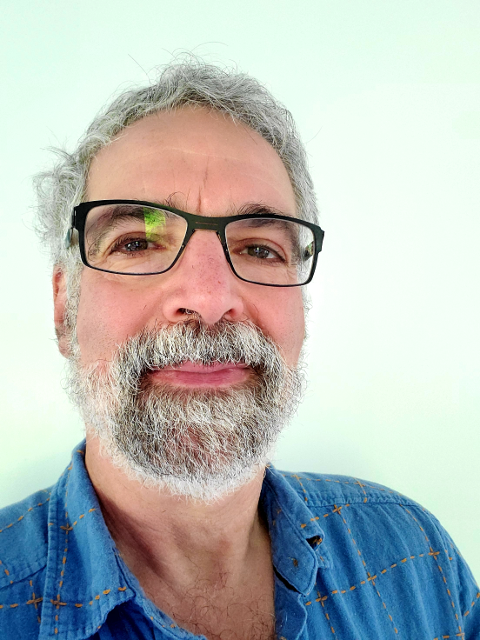
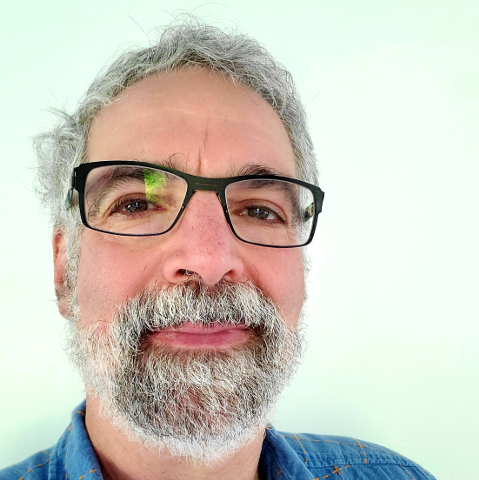
add headshots to site

diff --git a/index.html b/index.html
@@ -126,31 +126,80 @@
 
         <h3>More information coming soon!</h3>
         <p>
-            Emily&nbsp;Cunningham,
-            Elena&nbsp;D’Onghia,
-            Victor&nbsp;Debattista,
-            Kathryn&nbsp;Johnston,
-            Keith&nbsp;Hawkins,
-            Amina&nbsp;Helmi,
-            Jason&nbsp;Hunt,
-            Melissa&nbsp;Ness,
-            Sarah&nbsp;Pearson,
-            Adrian&nbsp;Price-Whelan,
-            Robyn&nbsp;Sanderson,
-            Tjitske&nbsp;Starkenburg,
-            Monica&nbsp;Valluri,
-            Eugene&nbsp;Vasiliev,
-            Martin&nbsp;Weinberg,
-            Larry&nbsp;Widrow
-            </p>
-
-        <!-- <table class="headshots">
-          <tr>
-            <td></td>
-            <td></td>
-            <td></td>
-          </tr>
-        </table> -->
+          <!-- <table class="mentors">
+            <tr>
+              <td><img src="./images/headshots/emilycunningham.jpg" /></td>
+              <td><img src="./images/orbit.png" /></td>
+              <td><img src="./images/orbit.png" /></td>
+            </tr>
+          </table> -->
+          <ul>
+            <li class="headshot-container">
+              <img src="./images/headshots/emilycunningham.jpg"/>
+              <span class="caption">Emily Cunningham</span>
+            </li>
+            <li class="headshot-container">
+              <img class="image" src="./images/orbit.png"/>
+              <span class="caption">Elena D'Onghia</span>
+            </li>
+            <li class="headshot-container">
+              <img class="image" src="./images/orbit.png"/>
+              <span class="caption">Victor Debattista</span>
+            </li>
+            <li class="headshot-container">
+              <img class="image" src="./images/headshots/kathrynjohnston.jpg"/>
+              <span class="caption">Kathryn Johnston</span>
+            </li>
+            <li class="headshot-container">
+              <img class="image" src="./images/headshots/keithhawkins.jpg"/>
+              <span class="caption">Keith Hawkins</span>
+            </li>
+            <li class="headshot-container">
+              <img class="image" src="./images/orbit.png"/>
+              <span class="caption">Amina Helmi</span>
+            </li>
+            <li class="headshot-container">
+              <img class="image" src="./images/headshots/jasonhunt.jpeg"/>
+              <span class="caption">Jason Hunt</span>
+            </li>
+            <li class="headshot-container">
+              <img class="image" src="./images/headshots/melissaness.jpg"/>
+              <span class="caption">Melissa Ness</span>
+            </li>
+            <li class="headshot-container">
+              <img class="image" src="./images/headshots/sarahpearson.jpg"/>
+              <span class="caption">Sarah Pearson</span>
+            </li>
+            <li class="headshot-container">
+              <img class="image" src="./images/headshots/adrianpw.jpg"/>
+              <span class="caption">Adrian Price-Whelan</span>
+            </li>
+            <li class="headshot-container">
+              <img class="image" src="./images/headshots/robynsanderson.jpg"/>
+              <span class="caption">Robyn Sanderson</span>
+            </li>
+            <li class="headshot-container">
+              <img class="image" src="./images/headshots/tjitskestarkenburg.jpg"/>
+              <span class="caption">Tjitske Starkenburg</span>
+            </li>
+            <li class="headshot-container">
+              <img class="image" src="./images/headshots/monicavalluri.jpg"/>
+              <span class="caption">Monica Valluri</span>
+            </li>
+            <li class="headshot-container">
+              <img class="image" src="./images/headshots/eugenevasiliev.jpg"/>
+              <span class="caption">Eugene Vasiliev</span>
+            </li>
+            <li class="headshot-container">
+              <img class="image" src="./images/headshots/martinweinberg.png"/>
+              <span class="caption">Martin Weinberg</span>
+            </li>
+            <li class="headshot-container">
+              <img class="image" src="./images/headshots/larrywidrow.jpg"/>
+              <span class="caption">Larry Widrow</span>
+            </li>
+          </ul>
+        </p>
 
         <hr />
       </div>

diff --git a/css/styles.css b/css/styles.css
@@ -348,6 +348,28 @@ span.parstart {
   color: black;
 }
 
+
+.headshot-container {
+  display: inline-block;
+  margin-left: 10px;
+  margin-right: 10px;
+}
+
+.headshot-container img {
+  border-radius: 50%;
+  width: 172px;
+  height: 172px;
+  display: block;
+  margin-bottom: 10px;
+}
+
+.headshot-container .caption {
+  display: block;
+  width: 100%;
+  text-align: center;
+  margin-bottom: 40px;
+}
+
 /*********************************************************
   RESPONSIVE
 *********************************************************/
